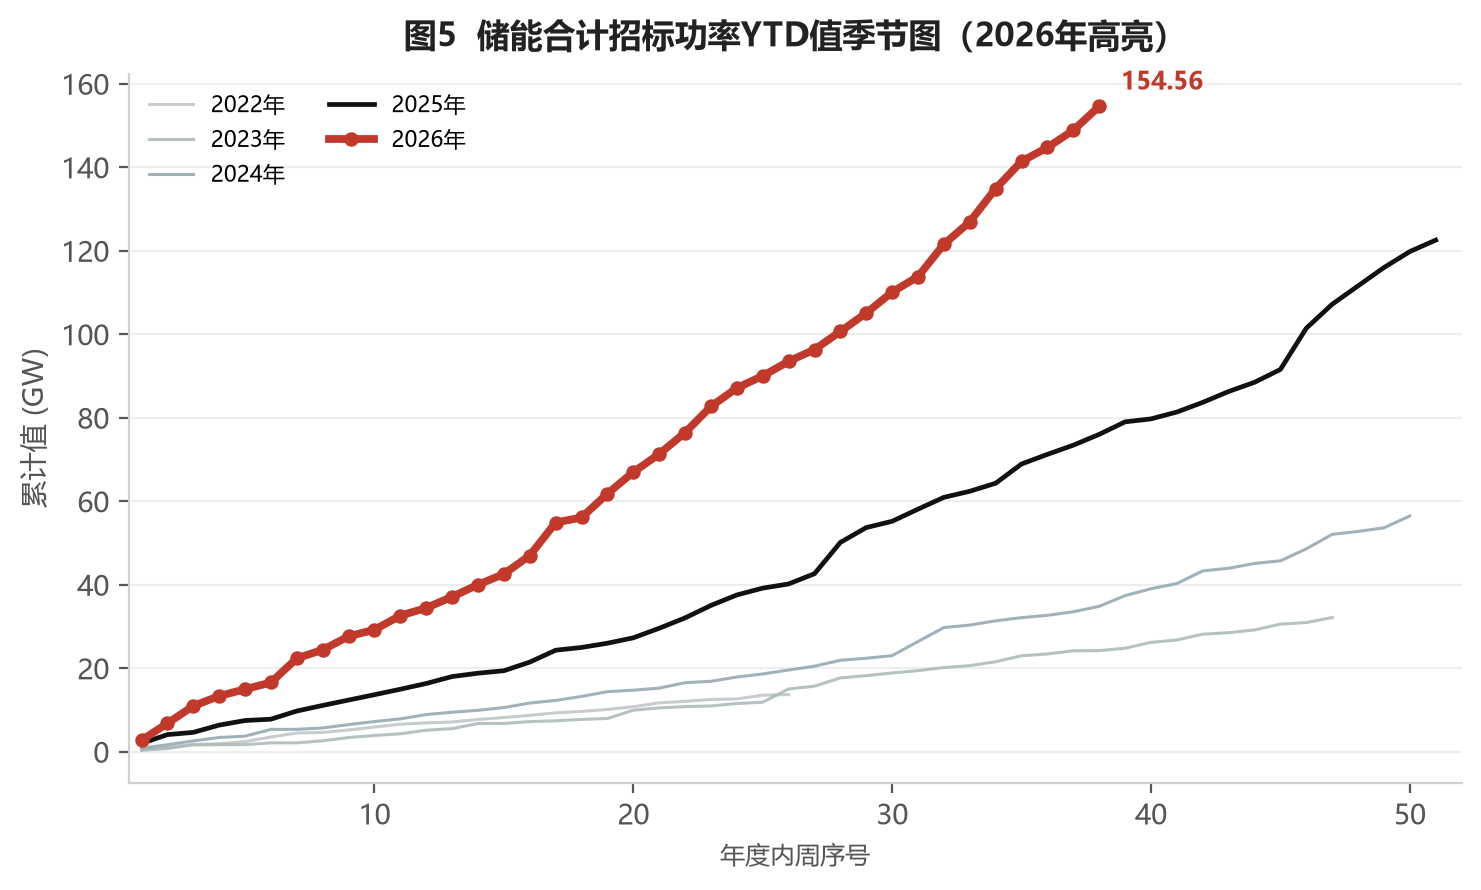
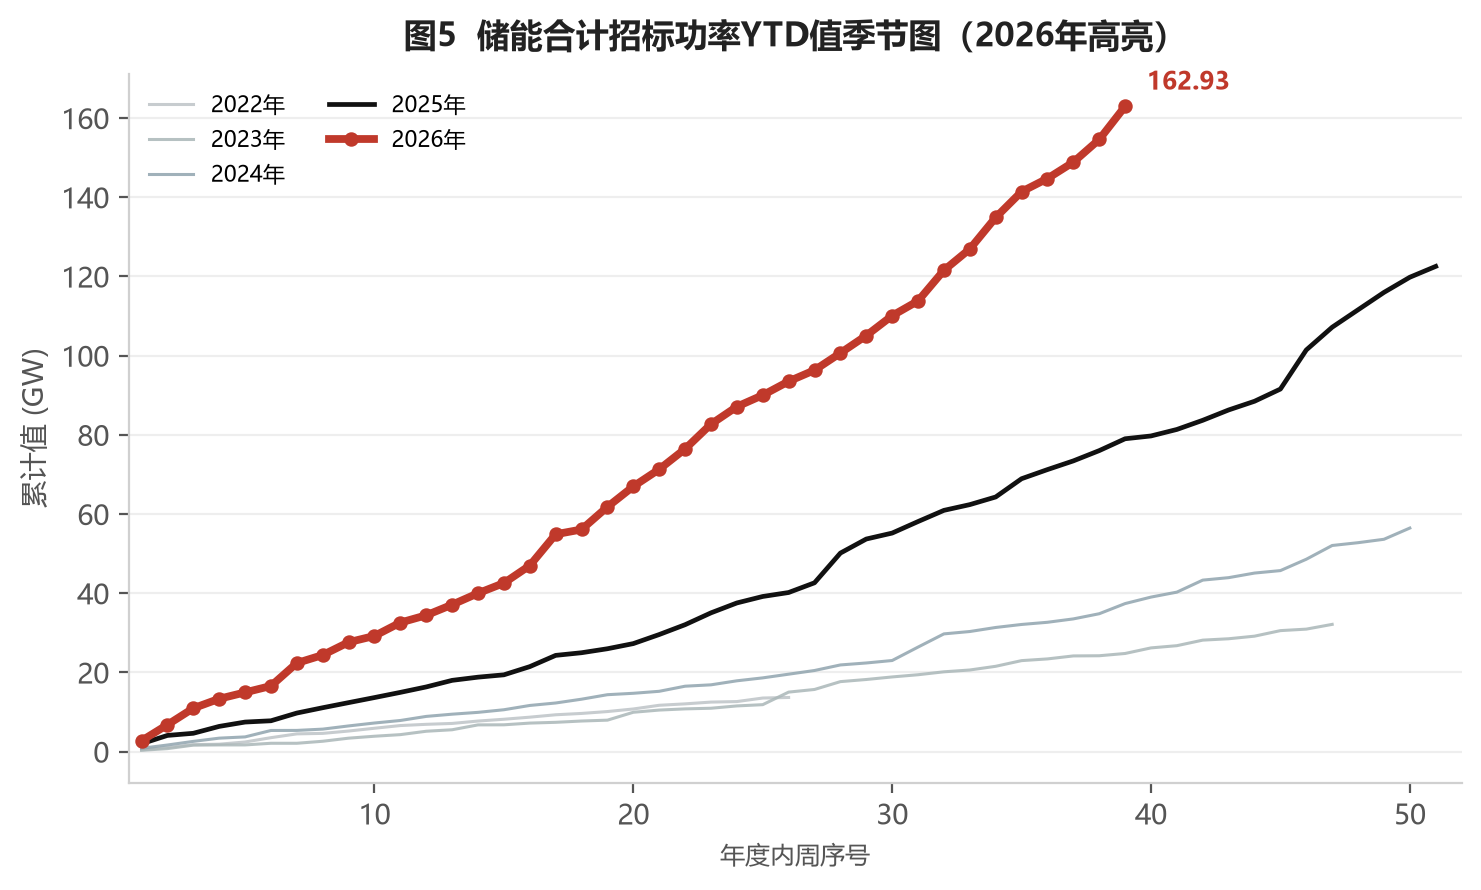
update weekly report 2026-10-06

diff --git a/docs/index.html b/docs/index.html
@@ -3,7 +3,7 @@
 <head>
 <meta charset="UTF-8" />
 <meta name="viewport" content="width=device-width, initial-scale=1.0" />
-<title>储能行业周报 · 储能招中标板块（2026-09-25）</title>
+<title>储能行业周报 · 储能招中标板块（2026-10-02）</title>
 <meta name="description" content="储能行业周度招中标数据报告：周度规模、累计规模、EPC/系统分项、中标价格走势。" />
 <style>
 :root {
@@ -52,13 +52,13 @@ footer{text-align:center;color:var(--muted);font-size:12px;padding:26px 0;
 <header class="hero">
   <div class="container">
     <h1>储能行业周报 · 储能招中标板块</h1>
-    <div class="meta">数据周期：2022-07-01 ~ 2026-09-25 · 本周：2026-09-19 至 2026-09-25（2026年第38周）· 共 212 周数据 · 生成于 2026-09-27 20:03:09</div>
+    <div class="meta">数据周期：2022-07-01 ~ 2026-10-02 · 本周：2026-09-26 至 2026-10-02（2026年第39周）· 共 213 周数据 · 生成于 2026-10-06 18:49:01</div>
   </div>
 </header>
 <div class="container">
     <section class="sec">
       <h2>一、中国|储能周度招中标</h2>
-      <div class="desc"><p class="d">本周：2026-09-19 至 2026-09-25</p><p class="d">招标项目 <b>43</b> 个，规模合计 <b>5.73</b>GW/<b>37.63</b>GWh，环比 <span class="chg up">+38.9%</span>/<span class="chg up">+192.9%</span>，同比 <span class="chg up">+120.9%</span>/<span class="chg up">+337.2%</span>。</p><p class="d">中标项目 <b>51</b> 个，规模合计 <b>9.66</b>GW/<b>29.16</b>GWh，环比 <span class="chg up">+78.1%</span>/<span class="chg up">+88.7%</span>，同比 <span class="chg up">+479.2%</span>/<span class="chg up">+465.4%</span>。</p></div>
+      <div class="desc"><p class="d">本周：2026-09-26 至 2026-10-02</p><p class="d">招标项目 <b>52</b> 个，规模合计 <b>8.37</b>GW/<b>24.88</b>GWh，环比 <span class="chg up">+46.2%</span>/<span class="chg down">-33.9%</span>，同比 <span class="chg up">+179.5%</span>/<span class="chg up">+354.1%</span>。</p><p class="d">中标项目 <b>40</b> 个，规模合计 <b>7.79</b>GW/<b>29.99</b>GWh，环比 <span class="chg down">-19.3%</span>/<span class="chg up">+2.9%</span>，同比 <span class="chg up">+43.6%</span>/<span class="chg up">+42.5%</span>。</p></div>
       <div class="charts">
       <figure class="fig"><img src="assets/images/fig_01.png" alt="图1：储能合计招标功率当周值季节图" loading="lazy" /></figure>
       <figure class="fig"><img src="assets/images/fig_02.png" alt="图2：储能合计中标功率当周值季节图" loading="lazy" /></figure>
@@ -69,7 +69,7 @@ footer{text-align:center;color:var(--muted);font-size:12px;padding:26px 0;
 
     <section class="sec">
       <h2>二、中国|储能周度招中标（累计）</h2>
-      <div class="desc"><p class="d">截至 2026-09-25</p><p class="d">招标累计规模 <b>154.56</b>GW/<b>537.84</b>GWh，环比 <span class="chg up">+3.9%</span>/<span class="chg up">+7.5%</span>，同比 <span class="chg up">+103.4%</span>/<span class="chg up">+122.0%</span>。</p><p class="d">中标累计规模 <b>172.03</b>GW/<b>653.52</b>GWh，环比 <span class="chg up">+6.0%</span>/<span class="chg up">+4.7%</span>，同比 <span class="chg up">+48.0%</span>/<span class="chg up">+55.3%</span>。</p></div>
+      <div class="desc"><p class="d">截至 2026-10-02</p><p class="d">招标累计规模 <b>162.93</b>GW/<b>562.71</b>GWh，环比 <span class="chg up">+5.4%</span>/<span class="chg up">+4.6%</span>，同比 <span class="chg up">+106.3%</span>/<span class="chg up">+127.2%</span>。</p><p class="d">中标累计规模 <b>179.82</b>GW/<b>683.51</b>GWh，环比 <span class="chg up">+4.5%</span>/<span class="chg up">+4.6%</span>，同比 <span class="chg up">+47.8%</span>/<span class="chg up">+54.7%</span>。</p></div>
       <div class="charts">
       <figure class="fig"><img src="assets/images/fig_05.png" alt="图5：储能合计招标功率YTD值季节图" loading="lazy" /></figure>
       <figure class="fig"><img src="assets/images/fig_06.png" alt="图6：储能合计中标功率YTD值季节图" loading="lazy" /></figure>
@@ -80,7 +80,7 @@ footer{text-align:center;color:var(--muted);font-size:12px;padding:26px 0;
 
     <section class="sec">
       <h2>三、储能EPC招中标规模（周度）</h2>
-      <div class="desc"><p class="d">本周：2026-09-19 至 2026-09-25</p><p class="d">储能EPC<b>招标</b>：<b>4.74</b>GW/<b>34.30</b>GWh，环比 <span class="chg up">+25.0%</span>/<span class="chg up">+181.7%</span>，同比 <span class="chg up">+136.3%</span>/<span class="chg up">+447.6%</span>；本年累计<b>招标</b> <b>127.17</b>GW/<b>373.24</b>GWh，同比 <span class="chg up">+112.9%</span>/<span class="chg up">+114.8%</span>。</p><p class="d">储能EPC<b>中标</b>：<b>8.56</b>GW/<b>25.20</b>GWh，环比 <span class="chg up">+83.4%</span>/<span class="chg up">+92.3%</span>，同比 <span class="chg up">+445.6%</span>/<span class="chg up">+535.7%</span>；本年累计<b>中标</b> <b>141.79</b>GW/<b>416.35</b>GWh，同比 <span class="chg up">+92.9%</span>/<span class="chg up">+102.0%</span>。</p></div>
+      <div class="desc"><p class="d">本周：2026-09-26 至 2026-10-02</p><p class="d">储能EPC<b>招标</b>：<b>7.93</b>GW/<b>23.60</b>GWh，环比 <span class="chg up">+67.3%</span>/<span class="chg down">-31.2%</span>，同比 <span class="chg up">+172.6%</span>/<span class="chg up">+344.6%</span>；本年累计<b>招标</b> <b>135.11</b>GW/<b>396.83</b>GWh，同比 <span class="chg up">+115.6%</span>/<span class="chg up">+121.7%</span>。</p><p class="d">储能EPC<b>中标</b>：<b>6.90</b>GW/<b>19.93</b>GWh，环比 <span class="chg down">-19.3%</span>/<span class="chg down">-20.9%</span>，同比 <span class="chg up">+51.0%</span>/<span class="chg up">+22.0%</span>；本年累计<b>中标</b> <b>148.70</b>GW/<b>436.28</b>GWh，同比 <span class="chg up">+90.4%</span>/<span class="chg up">+96.1%</span>。</p></div>
       <div class="charts cols4">
       <figure class="fig"><img src="assets/images/fig_09.png" alt="图9：储能EPC招标功率当周值季节图" loading="lazy" /></figure>
       <figure class="fig"><img src="assets/images/fig_10.png" alt="图10：储能EPC招标功率YTD值季节图" loading="lazy" /></figure>
@@ -95,7 +95,7 @@ footer{text-align:center;color:var(--muted);font-size:12px;padding:26px 0;
 
     <section class="sec">
       <h2>四、储能系统招中标规模（周度）</h2>
-      <div class="desc"><p class="d">本周：2026-09-19 至 2026-09-25</p><p class="d">储能系统<b>招标</b>：<b>0.99</b>GW/<b>3.33</b>GWh，环比 <span class="chg up">+196.5%</span>/<span class="chg up">+395.5%</span>，同比 <span class="chg up">+68.2%</span>/<span class="chg up">+42.2%</span>；本年累计<b>招标</b> <b>24.18</b>GW/<b>131.57</b>GWh，同比 <span class="chg up">+46.0%</span>/<span class="chg up">+92.1%</span>。</p><p class="d">储能系统<b>中标</b>：<b>1.10</b>GW/<b>3.96</b>GWh，环比 <span class="chg up">+45.7%</span>/<span class="chg up">+68.7%</span>，同比 <span class="chg up">+1010.0%</span>/<span class="chg up">+232.0%</span>；本年累计<b>中标</b> <b>27.50</b>GW/<b>192.04</b>GWh，同比 <span class="chg down">-35.8%</span>/<span class="chg down">-17.8%</span>。</p></div>
+      <div class="desc"><p class="d">本周：2026-09-26 至 2026-10-02</p><p class="d">储能系统<b>招标</b>：<b>0.44</b>GW/<b>1.28</b>GWh，环比 <span class="chg down">-55.4%</span>/<span class="chg down">-61.6%</span>，同比 <span class="chg up">+418.1%</span>/<span class="chg up">+652.8%</span>；本年累计<b>招标</b> <b>24.62</b>GW/<b>132.85</b>GWh，同比 <span class="chg up">+47.9%</span>/<span class="chg up">+93.5%</span>。</p><p class="d">储能系统<b>中标</b>：<b>0.89</b>GW/<b>10.07</b>GWh，环比 <span class="chg down">-19.4%</span>/<span class="chg up">+154.0%</span>，同比 <span class="chg up">+4.3%</span>/<span class="chg up">+113.1%</span>；本年累计<b>中标</b> <b>28.38</b>GW/<b>202.10</b>GWh，同比 <span class="chg down">-35.0%</span>/<span class="chg down">-15.2%</span>。</p></div>
       <div class="charts cols4">
       <figure class="fig"><img src="assets/images/fig_17.png" alt="图17：储能系统招标功率当周值季节图" loading="lazy" /></figure>
       <figure class="fig"><img src="assets/images/fig_18.png" alt="图18：储能系统招标功率YTD值季节图" loading="lazy" /></figure>
@@ -110,7 +110,7 @@ footer{text-align:center;color:var(--muted);font-size:12px;padding:26px 0;
 
     <section class="sec">
       <h2>五、储能价格（周度）</h2>
-      <div class="desc"><p class="d">本周：2026-09-19 至 2026-09-25</p><p class="d">储能EPC中标报价区间：【<b>0.5640</b>-<b>1.6296</b>】元/Wh，储能EPC中标均价 <b>0.9637</b> 元/Wh（环比 <span class="chg down">-7.6%</span>，同比 <span class="chg down">-6.7%</span>）。</p><p class="d">储能系统中标报价区间：【<b>0.5765</b>-<b>0.6425</b>】元/Wh，储能系统中标均价 <b>0.6095</b> 元/Wh（环比 <span class="chg up">+3.3%</span>，同比 <span class="chg down">-7.7%</span>）。</p></div>
+      <div class="desc"><p class="d">本周：2026-09-26 至 2026-10-02</p><p class="d">储能EPC中标报价区间：【<b>0.5654</b>-<b>1.2284</b>】元/Wh，储能EPC中标均价 <b>0.9372</b> 元/Wh（环比 <span class="chg down">-2.8%</span>，同比 <span class="chg down">-3.4%</span>）。</p><p class="d">储能系统中标报价区间：【<b>0.4995</b>-<b>1.1906</b>】元/Wh，储能系统中标均价 <b>0.6290</b> 元/Wh（环比 <span class="chg up">+3.2%</span>，同比 <span class="chg down">-19.3%</span>）。</p></div>
       <div class="charts">
       <figure class="fig"><img src="assets/images/fig_25.png" alt="图25：储能系统中标均价季节图" loading="lazy" /></figure>
       <figure class="fig"><img src="assets/images/fig_26.png" alt="图26：储能EPC中标均价季节图" loading="lazy" /></figure>
